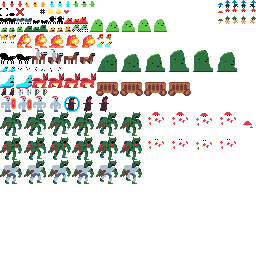
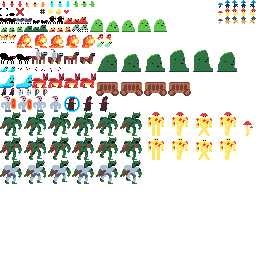
make white mushrooms yellow because they didnt read well on the street map

Changed region(s): [[0.5625, 0.4375, 0.9375, 0.625], [0.875, 0.0312, 1.0, 0.0625], [0.9375, 0.5, 1.0, 0.5312]]

diff --git a/src/enemy.rs b/src/enemy.rs
@@ -233,9 +233,9 @@ static GIGA_SLIME: EnemyType = EnemyType {
 static BLUE_MUSHROOM: EnemyType = EnemyType {
     sprite: 0 * 32 + 27,
     max_health: 125.0,
-    ..WHITE_MUSHROOM
+    ..YELLOW_MUSHROOM
 };
-static WHITE_MUSHROOM: EnemyType = EnemyType {
+static YELLOW_MUSHROOM: EnemyType = EnemyType {
     name: "mushroom",
     sprite: 1 * 32 + 27,
     anim_length: 1,
@@ -247,7 +247,7 @@ static WHITE_MUSHROOM: EnemyType = EnemyType {
 static GREEN_MUSHROOM: EnemyType = EnemyType {
     sprite: 2 * 32 + 27,
     max_health: 24.0,
-    ..WHITE_MUSHROOM
+    ..YELLOW_MUSHROOM
 };
 static BLUE_MUSHROOM_GUY: EnemyType = EnemyType {
     name: "blue_mushroom_guy",
@@ -256,16 +256,16 @@ static BLUE_MUSHROOM_GUY: EnemyType = EnemyType {
     max_health: 95.0,
     damage_resistance: DamageResistance::Partial(DamageType::Magic),
     payload: EnemyPayload::Some(&BLUE_MUSHROOM, 1),
-    ..WHITE_MUSHROOM_GUY
+    ..YELLOW_MUSHROOM_GUY
 };
-static WHITE_MUSHROOM_GUY: EnemyType = EnemyType {
-    name: "white_mushroom_guy",
+static YELLOW_MUSHROOM_GUY: EnemyType = EnemyType {
+    name: "yellow_mushroom_guy",
     sprite: 1 * 32 + 28,
     anim_length: 4,
     damage: 2,
     speed: 1.2,
     anim_speed: 1.0 / 1.2 * 0.5,
-    payload: EnemyPayload::Some(&WHITE_MUSHROOM, 1),
+    payload: EnemyPayload::Some(&YELLOW_MUSHROOM, 1),
     max_health: 7.0,
     ..DEFAULT_ENEMY_TYPE
 };
@@ -276,7 +276,7 @@ static GREEN_MUSHROOM_GUY: EnemyType = EnemyType {
     max_health: 20.0,
     damage_resistance: DamageResistance::Partial(DamageType::Acid),
     payload: EnemyPayload::Some(&GREEN_MUSHROOM, 1),
-    ..WHITE_MUSHROOM_GUY
+    ..YELLOW_MUSHROOM_GUY
 };
 static BIG_MUSHROOM: EnemyType = EnemyType {
     name: "big_mushroom",
@@ -286,7 +286,7 @@ static BIG_MUSHROOM: EnemyType = EnemyType {
     size: 2,
     anim_length: 1,
     max_health: 250.0,
-    payload: EnemyPayload::Some(&WHITE_MUSHROOM_GUY, 20),
+    payload: EnemyPayload::Some(&YELLOW_MUSHROOM_GUY, 20),
     ..DEFAULT_ENEMY_TYPE
 };
 static BIG_INJURED_MUSHROOM_GUY: EnemyType = EnemyType {
@@ -549,7 +549,7 @@ pub static ENEMY_TYPES: &[EnemyType] = &[
         ..GIGA_SLIME
     },
     BLUE_MUSHROOM_GUY,
-    WHITE_MUSHROOM_GUY,
+    YELLOW_MUSHROOM_GUY,
     GREEN_MUSHROOM_GUY,
     BIG_MUSHROOM_GUY,
 ];
